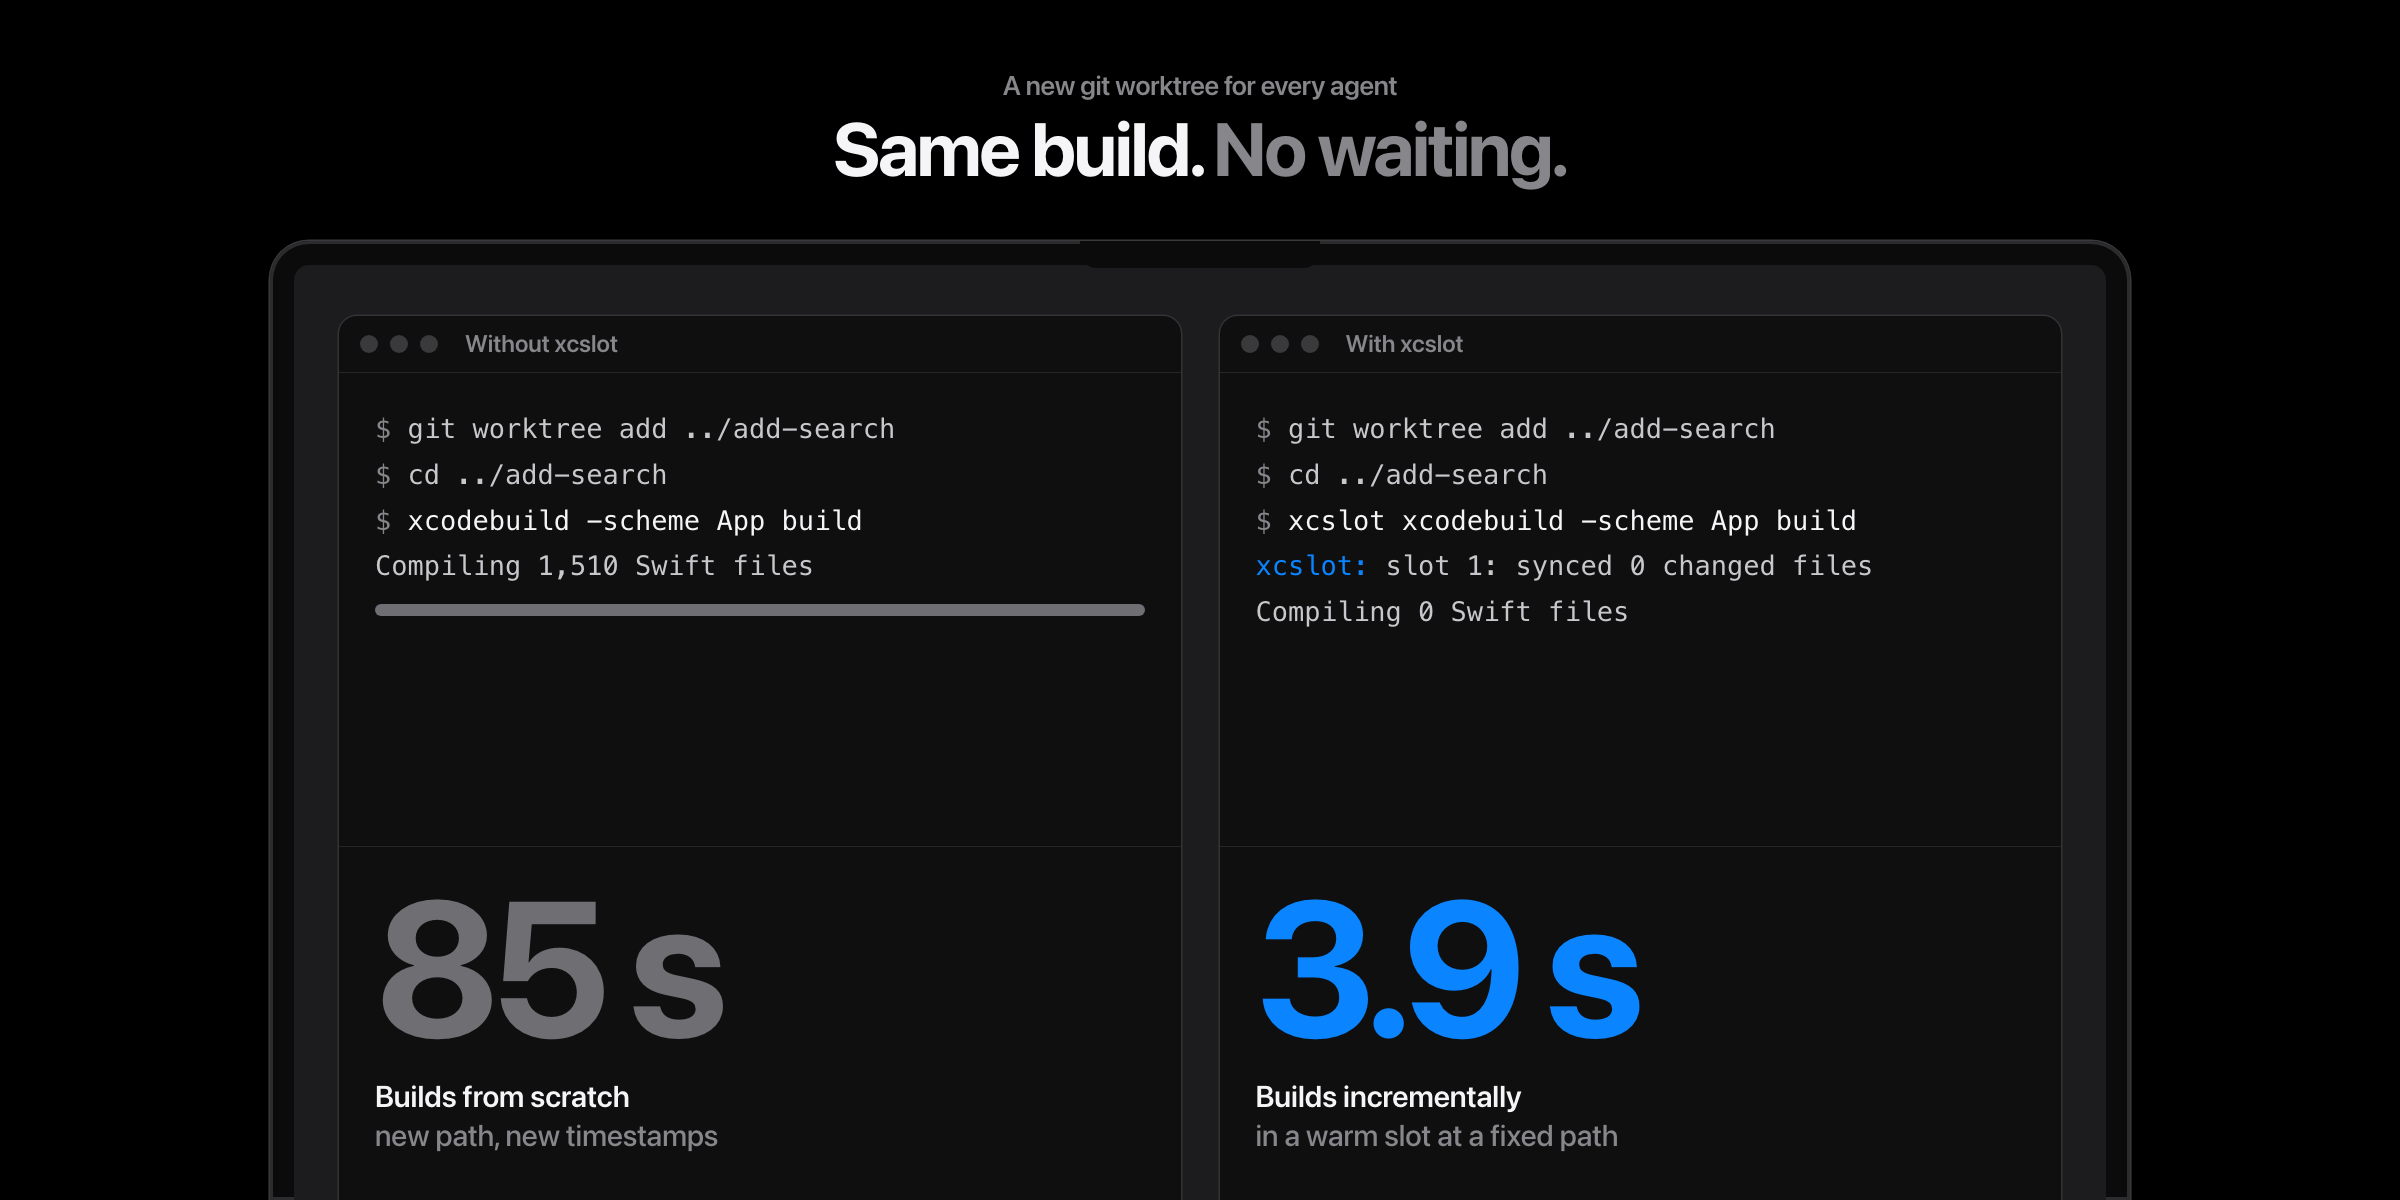
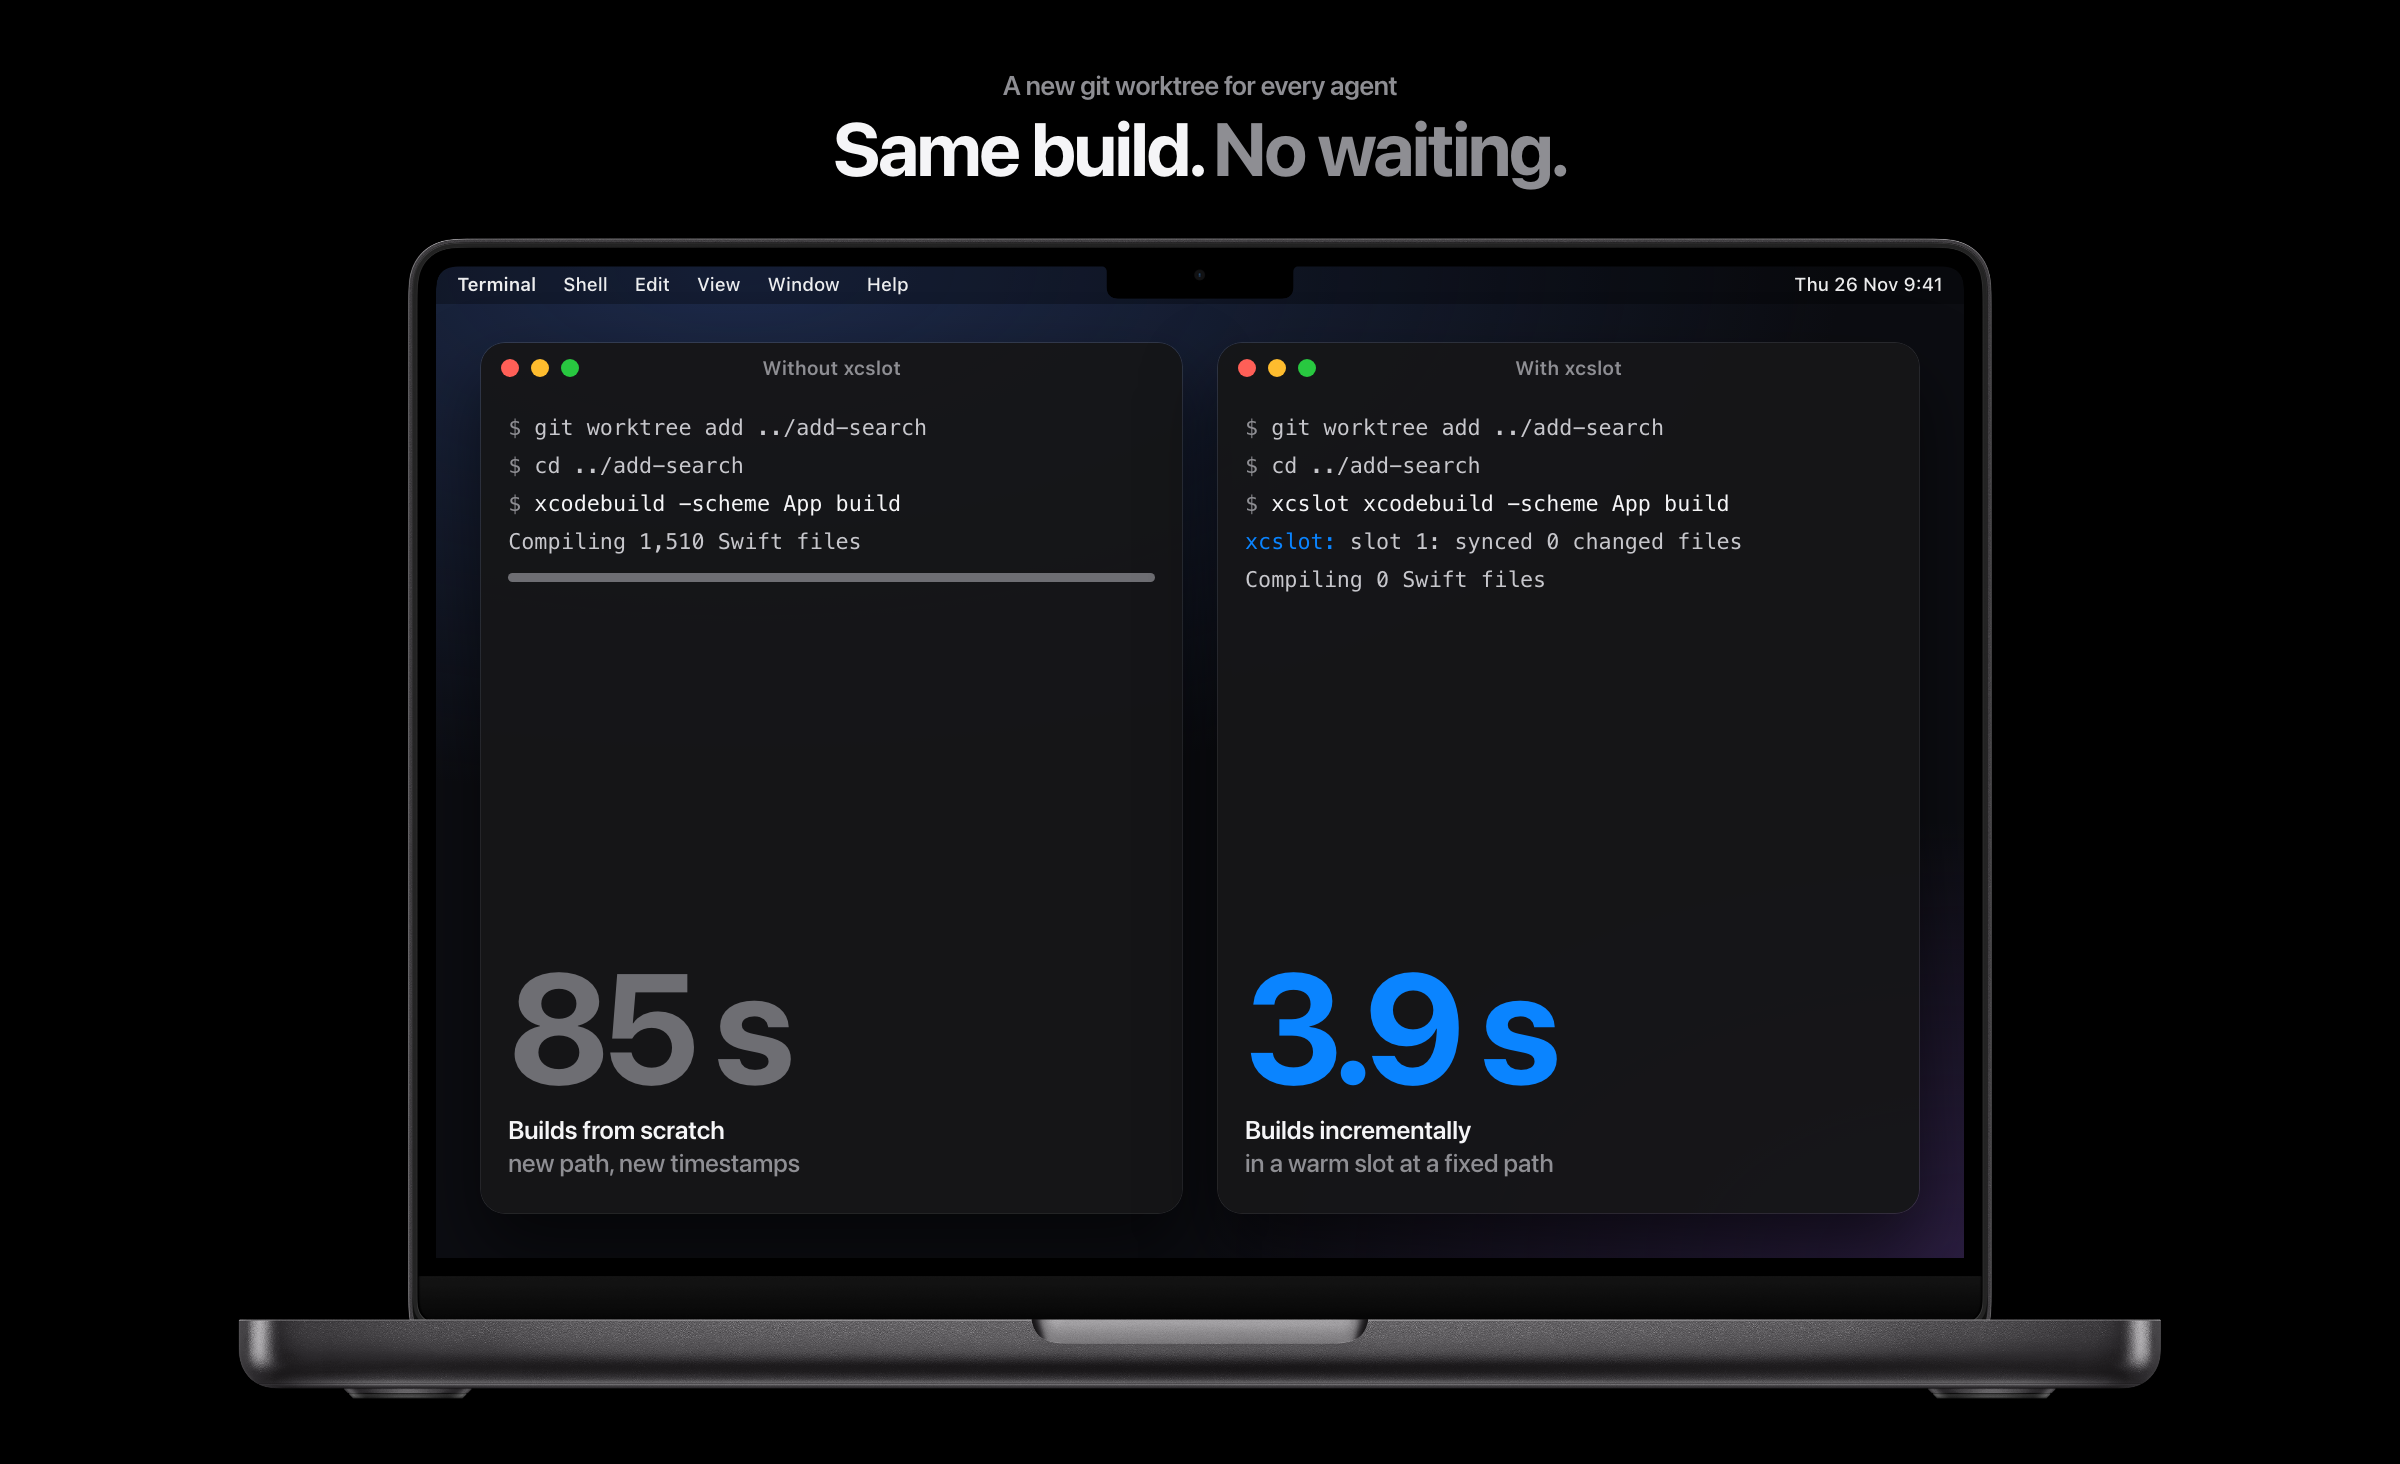
README header: the terminals on Apple's MacBook Pro bezel
The hand-drawn laptop frame, cut off at the bottom, becomes Apple's 14-inch
MacBook Pro bezel with a menu bar, macOS window chrome and the full laptop.
Apple's license allows the bezel in mock-ups but not redistribution, so the
PNG stays out of git and `bun run art` says where to get it.

Changed region(s): [[0.0938, 0.0308, 0.9062, 1.0], [0.5, 0.6475, 0.6875, 0.8633]]

diff --git a/scripts/art/header.html b/scripts/art/header.html
@@ -4,16 +4,14 @@
     <meta charset="utf-8" />
     <style>
       :root {
-        --bg: #000;
-        --tile: #161617;
-        --line: #2a2a2d;
         --fg: #f5f5f7;
-        --muted: #86868b;
-        --faint: #48484a;
+        --muted: #8e8e93;
         --blue: #0a84ff;
-        --blue-soft: rgba(10,132,255,0.16);
         --display: -apple-system, "SF Pro Display", BlinkMacSystemFont, system-ui, sans-serif;
+        --text: -apple-system, "SF Pro Text", BlinkMacSystemFont, system-ui, sans-serif;
         --mono: ui-monospace, "SF Mono", Menlo, monospace;
+        /* Apple's 14-inch bezel is 3860x2540 with its screen at 418,288, 3024x1964; drawn at --s of that. */
+        --s: 0.3368;
       }
       * {
         box-sizing: border-box;
@@ -21,14 +19,22 @@
       html,
       body {
         margin: 0;
-        background: var(--bg);
+        background: #000;
       }
       body {
         width: 1600px;
-        height: 800px;
+        height: 976px;
+        padding-top: 46px;
+        display: flex;
+        flex-direction: column;
+        align-items: center;
+        overflow: hidden;
         font-family: var(--display);
         color: var(--fg);
         -webkit-font-smoothing: antialiased;
+      }
+      header {
+        text-align: center;
       }
       .eyebrow {
         font-size: 18px;
@@ -46,82 +52,100 @@
       h1 span {
         color: var(--muted);
       }
-    </style>
-    <style>
-      body {
-        padding: 46px 70px 0;
-        display: flex;
-        flex-direction: column;
-        align-items: center;
-        overflow: hidden;
-      }
-      header {
-        text-align: center;
-      }
-      .lid {
-        margin-top: 34px;
-        width: 1240px;
-        height: 640px;
-        border-radius: 26px 26px 0 0;
-        background: #0b0b0c;
-        padding: 16px 16px 0;
-        box-shadow:
-          inset 0 0 0 2px #2c2c2e,
-          0 0 0 1px #3a3a3c;
+      .mac {
         position: relative;
+        margin-top: -46px;
+        width: calc(3860px * var(--s));
+        height: calc(2540px * var(--s));
       }
-      .lid::before {
-        content: "";
+      .mac > img {
         position: absolute;
-        top: 0;
-        left: 50%;
-        transform: translateX(-50%);
-        width: 160px;
-        height: 18px;
-        background: #0b0b0c;
-        border-radius: 0 0 11px 11px;
+        inset: 0;
+        width: 100%;
+        height: 100%;
       }
       .screen {
-        height: 100%;
-        border-radius: 10px 10px 0 0;
-        background: #1c1c1e;
-        padding: 34px 30px 0;
-        display: grid;
-        grid-template-columns: minmax(0, 1fr) minmax(0, 1fr);
-        gap: 26px;
-      }
-      .win {
-        border-radius: 12px 12px 0 0;
-        background: #0f0f10;
-        box-shadow: 0 0 0 1px #333336;
+        position: absolute;
+        left: calc(418px * var(--s));
+        top: calc(288px * var(--s));
+        width: calc(3024px * var(--s));
+        height: calc(1964px * var(--s));
+        overflow: hidden;
+        background:
+          radial-gradient(120% 90% at 20% 0%, #1d2a4a 0%, transparent 60%),
+          radial-gradient(90% 80% at 100% 100%, #2a1d3f 0%, transparent 55%), #0c0d12;
         display: flex;
         flex-direction: column;
       }
+      .menubar {
+        flex: none;
+        height: 25px;
+        padding: 0 14px;
+        display: flex;
+        align-items: center;
+        gap: 18px;
+        font: 600 12.5px var(--text);
+        color: rgba(255, 255, 255, 0.92);
+        background: rgba(0, 0, 0, 0.28);
+      }
+      .menubar span:not(:first-child) {
+        font-weight: 500;
+      }
+      .menubar .clock {
+        margin-left: auto;
+      }
+      .desk {
+        flex: 1;
+        padding: 26px 30px 30px;
+        display: grid;
+        grid-template-columns: minmax(0, 1fr) minmax(0, 1fr);
+        gap: 24px;
+      }
+      .win {
+        border-radius: 16px;
+        background: rgba(22, 22, 24, 0.96);
+        box-shadow:
+          0 0 0 0.5px rgba(255, 255, 255, 0.16),
+          0 24px 48px rgba(0, 0, 0, 0.55);
+        display: flex;
+        flex-direction: column;
+        overflow: hidden;
+      }
       .bar {
-        height: 38px;
+        height: 34px;
+        flex: none;
+        position: relative;
         display: flex;
         align-items: center;
         gap: 8px;
-        padding: 0 14px;
-        border-bottom: 1px solid #262629;
+        padding: 0 13px;
       }
-      .d {
+      .light {
         width: 12px;
         height: 12px;
         border-radius: 50%;
-        background: #3a3a3c;
       }
-      .ttl {
-        margin-left: 10px;
-        font-size: 16px;
-        font-weight: 600;
+      .light:nth-child(1) {
+        background: #ff5f57;
+      }
+      .light:nth-child(2) {
+        background: #febc2e;
+      }
+      .light:nth-child(3) {
+        background: #28c840;
+      }
+      .title {
+        position: absolute;
+        left: 0;
+        right: 0;
+        text-align: center;
+        font: 600 13px var(--text);
         color: var(--muted);
       }
       .body {
         margin: 0;
-        overflow: hidden;
-        padding: 22px 24px 6px;
-        font: 18px/1.7 var(--mono);
+        padding: 10px 18px 0;
+        font: 14.5px/1.75 var(--mono);
         color: #c7c7cc;
         white-space: pre;
       }
@@ -136,28 +160,20 @@
       }
       .track {
         display: block;
-        margin: 10px 0 4px;
-        height: 8px;
-        border-radius: 4px;
-        background: #2a2a2d;
-        overflow: hidden;
-      }
-      .fill {
-        display: block;
-        height: 100%;
-        width: 100%;
+        margin: 8px 0 0;
+        height: 6px;
+        border-radius: 3px;
         background: #6e6e73;
       }
       .result {
         margin-top: auto;
-        padding: 24px 24px 30px;
-        border-top: 1px solid #262629;
+        padding: 0 18px 22px;
         display: flex;
         flex-direction: column;
-        gap: 14px;
+        gap: 10px;
       }
       .big {
-        font-size: 128px;
+        font-size: 104px;
         font-weight: 700;
         letter-spacing: -0.05em;
         line-height: 0.9;
@@ -169,7 +185,7 @@
         color: var(--blue);
       }
       .note {
-        font-size: 20px;
+        font-size: 17px;
         color: var(--muted);
         font-weight: 500;
         line-height: 1.3;
@@ -186,35 +202,44 @@
       <div class="eyebrow">A new git worktree for every agent</div>
       <h1>Same build. <span>No waiting.</span></h1>
     </header>
-    <div class="lid">
+    <div class="mac">
       <div class="screen">
-        <div class="win">
-          <div class="bar">
-            <i class="d"></i><i class="d"></i><i class="d"></i><span class="ttl">Without xcslot</span>
-          </div>
-          <pre class="body"><span class="p">$</span> git worktree add ../add-search
+        <div class="menubar">
+          <span>Terminal</span><span>Shell</span><span>Edit</span><span>View</span><span>Window</span><span>Help</span
+          ><span class="clock">Thu 26 Nov 9:41</span>
+        </div>
+        <div class="desk">
+          <div class="win">
+            <div class="bar">
+              <i class="light"></i><i class="light"></i><i class="light"></i><span class="title">Without xcslot</span>
+            </div>
+            <pre class="body"><span class="p">$</span> git worktree add ../add-search
 <span class="p">$</span> cd ../add-search
 <span class="p">$</span> <span class="hl">xcodebuild -scheme App build</span>
 Compiling 1,510 Swift files
-<span class="track"><span class="fill"></span></span></pre>
-          <div class="result">
-            <span class="big slow">85 s</span
-            ><span class="note"><b>Builds from scratch</b>new path, new timestamps</span>
+<span class="track"></span></pre>
+            <div class="result">
+              <span class="big slow">85 s</span
+              ><span class="note"><b>Builds from scratch</b>new path, new timestamps</span>
+            </div>
           </div>
-        </div>
-        <div class="win">
-          <div class="bar"><i class="d"></i><i class="d"></i><i class="d"></i><span class="ttl">With xcslot</span></div>
-          <pre class="body"><span class="p">$</span> git worktree add ../add-search
+          <div class="win">
+            <div class="bar">
+              <i class="light"></i><i class="light"></i><i class="light"></i><span class="title">With xcslot</span>
+            </div>
+            <pre class="body"><span class="p">$</span> git worktree add ../add-search
 <span class="p">$</span> cd ../add-search
 <span class="p">$</span> <span class="hl">xcslot xcodebuild -scheme App build</span>
 <span class="b">xcslot:</span> slot 1: synced 0 changed files
 Compiling 0 Swift files</pre>
-          <div class="result">
-            <span class="big fast">3.9 s</span
-            ><span class="note"><b>Builds incrementally</b>in a warm slot at a fixed path</span>
+            <div class="result">
+              <span class="big fast">3.9 s</span
+              ><span class="note"><b>Builds incrementally</b>in a warm slot at a fixed path</span>
+            </div>
           </div>
         </div>
       </div>
+      <img src="bezel.png" alt="" />
     </div>
   </body>
 </html>

diff --git a/scripts/art.ts b/scripts/art.ts
@@ -1,7 +1,14 @@
 // Renders the README's header, figures and chips from scripts/art/*.html with headless Chrome: `bun scripts/art.ts`.
-import { mkdirSync, mkdtempSync, rmSync, writeFileSync } from "node:fs";
+import { existsSync, mkdirSync, mkdtempSync, rmSync, writeFileSync } from "node:fs";
 import { tmpdir } from "node:os";
 import { join, resolve } from "node:path";
+
+// Apple's license lets the bezel be drawn into mock-ups, not redistributed, so it stays out of git.
+if (!existsSync("scripts/art/bezel.png")) {
+  throw new Error(
+    "scripts/art/bezel.png is missing: copy 'MacBook Pro M5 14-inch Space Black.png' from Bezel-MacBook-Pro-M5.dmg on developer.apple.com/design/resources",
+  );
+}
 
 const CHROME = process.env.CHROME ?? "/Applications/Google Chrome.app/Contents/MacOS/Google Chrome";
 const work = mkdtempSync(join(tmpdir(), "xcslot-art-"));
@@ -26,7 +33,7 @@ function shoot(html: string, out: string, width: number, height: number, scale: 
 }
 
 try {
-  shoot(resolve("scripts/art/header.html"), ".github/assets/header.png", 1600, 800, 1.5, false);
+  shoot(resolve("scripts/art/header.html"), ".github/assets/header.png", 1600, 976, 1.5, false);
   shoot(resolve("scripts/art/chart.html"), ".github/assets/chart.png", 1600, 900, 1.25, false);
   const dumped = Bun.spawnSync(
     [

diff --git a/AGENTS.md b/AGENTS.md
@@ -15,7 +15,7 @@ XCSLOT_E2E=1 bun test test/e2e.test.ts   # real xcodebuild on a generated Swift 
 bun fmt                             # format
 bun run docs                        # regenerate the tables in docs/reference.md after changing src/commands/schemas.ts
 bun run build                       # standalone binaries in dist/
-bun run art                         # re-render the header, chart and chips from scripts/art/*.html (needs Chrome)
+bun run art                         # re-render the header, chart and chips from scripts/art/*.html (needs Chrome and Apple's bezel)
 ```
 
 Use bun for everything. `bun lint` joins `verify` when Bun 1.4.6 is stable; it is not in 1.4.5.
